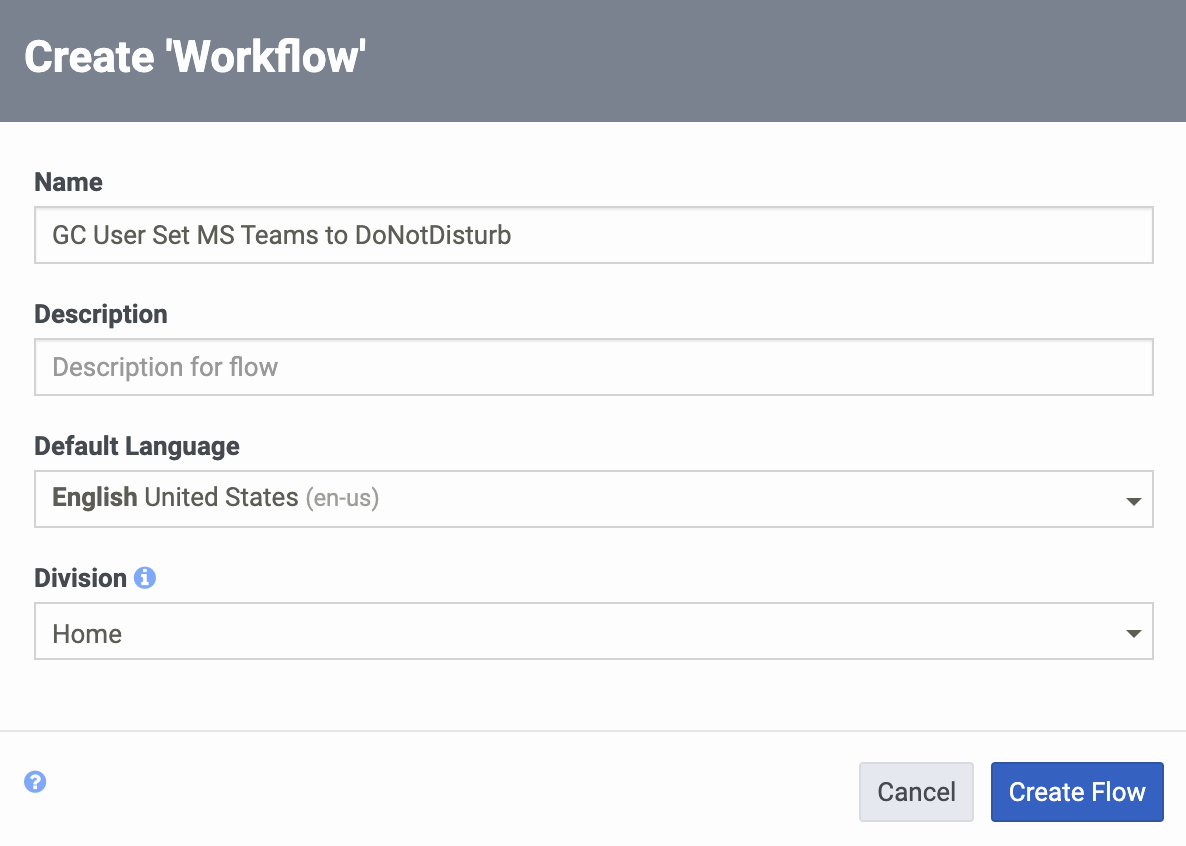
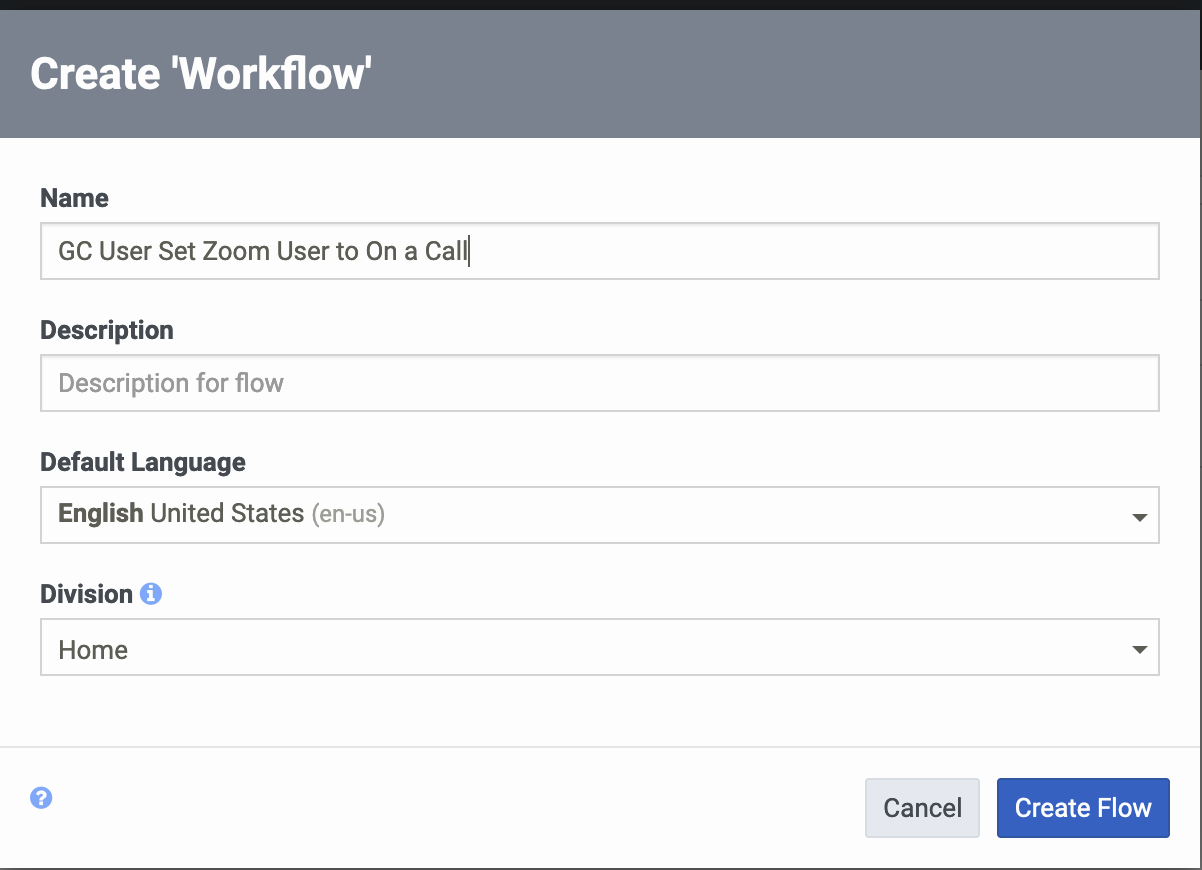
screenshot check - somewhere in architect flow section

diff --git a/blueprint/index.md b/blueprint/index.md
@@ -158,9 +158,9 @@ This data action calls the Microsoft Graph API to update the Zoom user's presenc
    ![Import the Update Zoom User Presence data action](images/5BImportUpdateZoomUserPresenceDataAction.png "Import the data action")
 
 ### Import the Architect Workflows
-You need to import the *GC User Set Zoom to DoNotDisturb_v8-0.i3WorkFlow* and *GC User Set Zoom to Available_v4-0.i3WorkFlow* architect workflows that references the created data actions. These workflows will be called by the Event Orchestration triggers created in the next step.  When triggered, these workflows will call the Find Zoom User ID data action, set the Zoom User Id variable then update the Zoom user's presence via the Graph API.  One workflow is triggered with an agent joins an inbound acd voice interaction and sets the Zoom presence to DoNotDisturb.  The other workflow is triggered when the inbound acd interaction ends and sets the Zoom presence to Available.  
+You need to import the *GC User Set Zoom User to On a Call_v1-0.i3WorkFlow* and *GC User Set Zoom User to Available_v1-0.i3WorkFlow* architect workflows that references the created data action. These workflows will be called by the Event Orchestration triggers created in the next step.  When triggered, these workflows will set the Zoom User to the Genesys Cloud user's username, which must match the corresponding Zoom user's email.  Once the user variable is set, the workflow calls the Zoom API to update the Zoom user's presence.  One workflow is triggered when an agent joins an inbound acd voice interaction and sets the Zoom presence to On_a_call.  The other workflow is triggered when the inbound acd interaction ends and sets the Zoom presence to Available.  
 
-1. Download the *GC User Set Zoom to DoNotDisturb_v8-0.i3WorkFlow* file from the [update-zoom-presence-from-inbound-interaction](https://github.com/jasonwolfg/update-zoom-presence-from-inbound-interaction- "Opens the GitHub repo") GitHub repository. Save this file to your local desktop to import it into Genesys Cloud.  
+1. Download the *GC User Set Zoom User to On a Call_v1-0.i3WorkFlow* file from the [update-zoom-presence-from-inbound-interaction](https://github.com/jasonwolfg/update-zoom-presence-from-inbound-interaction- "Opens the GitHub repo") GitHub repository. Save this file to your local desktop to import it into Genesys Cloud.  
 
 2. Navigate to **Admin** > **Architect** > **Flows:Workflow** and click **Add**.
 
@@ -174,7 +174,7 @@ You need to import the *GC User Set Zoom to DoNotDisturb_v8-0.i3WorkFlow* and *G
 
    ![Import Your Workflow](images/ImportWorkflow1.png "Import Your Workflow")
 
-5. Select the downloaded *GC User Set Zoom to DoNotDisturb_v8-0.i3WorkFlow* file.  Click **Import**.
+5. Select the downloaded *GC User Set Zoom User to On a Call_v1-0.i3WorkFlow* file.  Click **Import**.
 
    ![Import your Workflow File](images/SelectWorkflow1ImportFile.png "Import your Workflow File")
 
@@ -182,7 +182,7 @@ You need to import the *GC User Set Zoom to DoNotDisturb_v8-0.i3WorkFlow* and *G
 
    ![Save your Workflow](images/ImportedWorkflow1.png "Save Your Workflow")
 
-7. Download the *GC User Set Zoom to Available_v4-0.i3WorkFlow* file from the [update-zoom-presence-from-inbound-interaction](https://github.com/jasonwolfg/update-zoom-presence-from-inbound-interaction- "Opens the GitHub repo") GitHub repository. Save this file to your local desktop to import it into Genesys Cloud.  
+7. Download the *GC User Set Zoom User to Available_v1-0.i3WorkFlow* file from the [update-zoom-presence-from-inbound-interaction](https://github.com/jasonwolfg/update-zoom-presence-from-inbound-interaction- "Opens the GitHub repo") GitHub repository. Save this file to your local desktop to import it into Genesys Cloud.  
 
 8. Navigate to **Admin** > **Architect** > **Flows:Workflow** and click **Add**.
 
@@ -196,7 +196,7 @@ You need to import the *GC User Set Zoom to DoNotDisturb_v8-0.i3WorkFlow* and *G
 
   ![Import Your Workflow](images/ImportWorkflow2.png "Import Your Workflow")
 
-11. Select the downloaded *GC User Set Zoom to Available_v4-0.i3WorkFlowI’m * file.  Click **Import**.
+11. Select the downloaded *GC User Set Zoom User to Available_v1-0.i3WorkFlow* file.  Click **Import**.
 
   ![Import your Workflow File](images/SelectWorkflow2ImportFile.png "Import your Workflow File")
 
